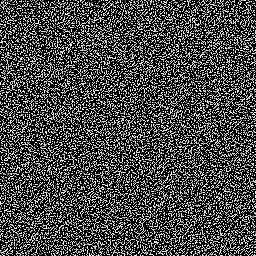
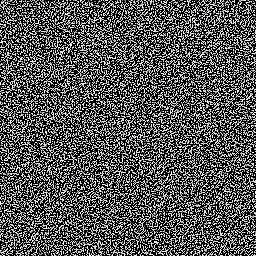
Dial the grain back to something subtle
It was reading as heavy noise over the whole page: alpha halved at generation,
opacity down from 0.5 to 0.09, and the tile stretched to 420px so the pattern
stops repeating visibly. Generation now lives in scripts/media.mjs.

Changed region(s): [[0.0, 0.0, 1.0, 1.0]]

diff --git a/src/styles/global.css b/src/styles/global.css
@@ -82,8 +82,10 @@ body::after {
   z-index: 9999;
   pointer-events: none;
   background-image: var(--grain-src);
-  background-size: 200px 200px;
-  opacity: 0.5;
+  /* Tuile etalee bien au-dela de sa taille native (256px): le grain s'adoucit
+     et la repetition du motif ne se lit plus. */
+  background-size: 420px 420px;
+  opacity: 0.09;
 }
 
 img,
